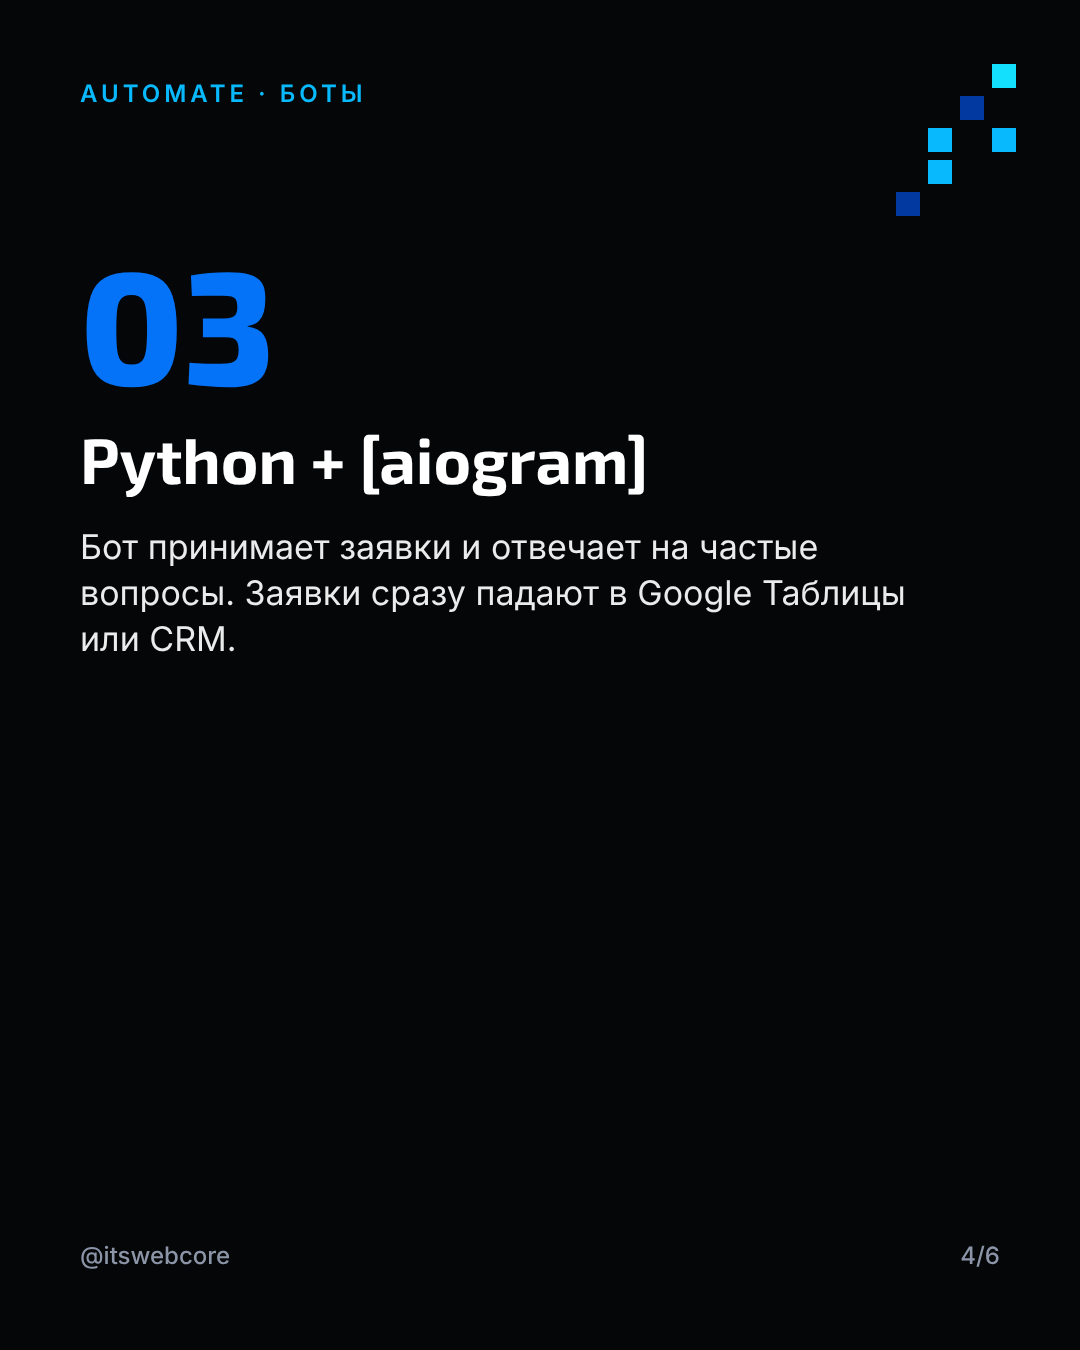
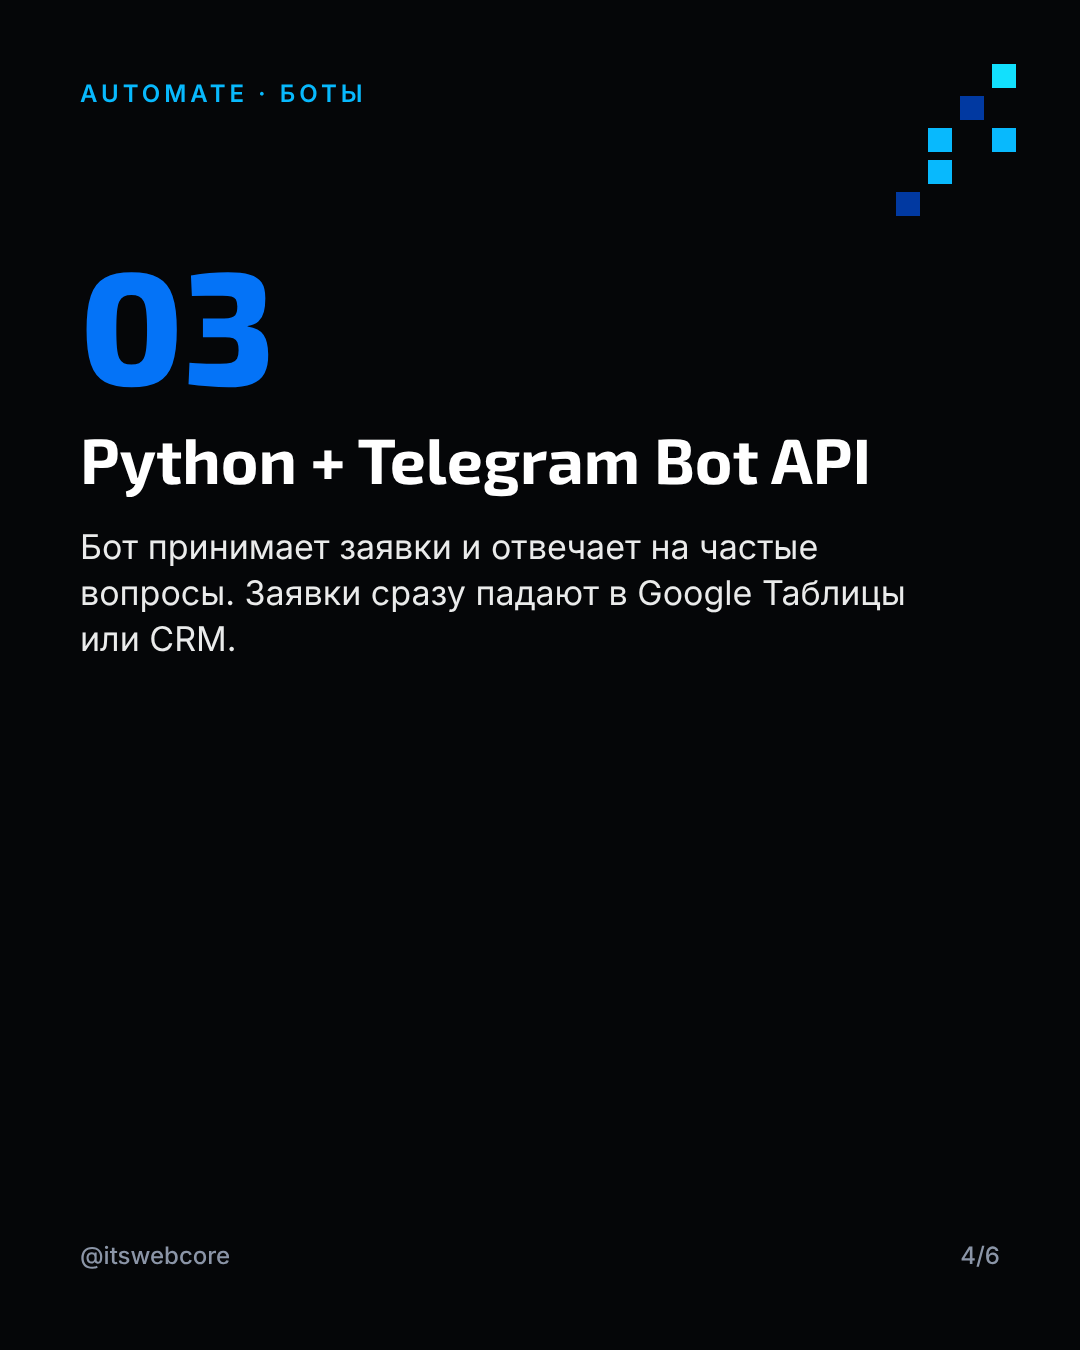
Посты недели 1 без заготовок, аватар, описания профилей, оформление Telegram-канала
Claude-Session: https://claude.ai/code/session_01Po5HxNS9izEdbNkzxQn4qg

Changed region(s): [[0.3361, 0.3111, 0.825, 0.3733]]

diff --git a/templates/week-01/d7-04dec.dc.html b/templates/week-01/d7-04dec.dc.html
@@ -28,7 +28,7 @@ a{color:#2f8bff}a:hover{color:#08b9fd}
 <div style="display: flex; align-items: center; gap: 24px"><svg aria-hidden="true" width="40" height="40" viewBox="0 0 40 40"><rect x="0" y="0" width="40" height="40" fill="none" stroke="#08b9fd" stroke-width="3"/><path d="M10 21 L17 28 L30 13" fill="none" stroke="#08b9fd" stroke-width="4"/></svg><span style="font-size: 38px; font-weight: 500; color: #eaebeb">Реклама в Google</span></div>
 <div style="display: flex; align-items: center; gap: 24px"><svg aria-hidden="true" width="40" height="40" viewBox="0 0 40 40"><rect x="0" y="0" width="40" height="40" fill="none" stroke="#08b9fd" stroke-width="3"/><path d="M10 21 L17 28 L30 13" fill="none" stroke="#08b9fd" stroke-width="4"/></svg><span style="font-size: 38px; font-weight: 500; color: #eaebeb">Обработка заявок</span></div>
 </div>
-<div style="background: #0473f7; border-radius: 4px; padding: 32px 40px"><p style="margin: 0; font-size: 36px; font-weight: 700; line-height: 1.25; color: #ffffff">Напиши РАЗБОР в комментариях или в директ</p><p style="margin: 8px 0 0; font-size: 26px; font-weight: 600; color: #ffffff">Выберу 3 заявки до [дата]</p></div>
+<div style="background: #0473f7; border-radius: 4px; padding: 32px 40px"><p style="margin: 0; font-size: 36px; font-weight: 700; line-height: 1.25; color: #ffffff">Напиши РАЗБОР в комментариях или в директ</p><p style="margin: 8px 0 0; font-size: 26px; font-weight: 600; color: #ffffff">Выберу 3 заявки до 11 декабря</p></div>
 </div>
 <div style="margin-top: auto"></div>
 <div style="position: relative; display: flex; justify-content: space-between; align-items: center">

diff --git a/templates/week-01/d2-slide2.dc.html b/templates/week-01/d2-slide2.dc.html
@@ -23,8 +23,8 @@ a{color:#2f8bff}a:hover{color:#08b9fd}
 <p style="margin: 0; font-family: Inter, sans-serif; font-weight: 600; font-size: 24px; line-height: 1.2; letter-spacing: 4px; text-transform: uppercase; color: #08b9fd">Build · сайты</p>
 <div style="position: relative; display: flex; flex-direction: column; gap: 32px; margin-top: 140px">
 <p style="margin: 0; font-family: 'Exo 2', sans-serif; font-weight: 800; font-size: 160px; line-height: 0.9; color: #0473f7">01</p>
-<h2 style="margin: 0; max-width: 900px; font-family: 'Exo 2', sans-serif; font-weight: 700; font-size: 64px; line-height: 1.05; color: #ffffff">[WordPress / Tilda / свой код]</h2>
-<p style="margin: 0; max-width: 860px; font-size: 34px; line-height: 1.35; color: #eaebeb">Почему именно это: [одна причина]. Клиенту важно не на чём сайт, а сколько людей оставили заявку.</p>
+<h2 style="margin: 0; max-width: 900px; font-family: 'Exo 2', sans-serif; font-weight: 700; font-size: 64px; line-height: 1.05; color: #ffffff">Платформа — под задачу</h2>
+<p style="margin: 0; max-width: 860px; font-size: 34px; line-height: 1.35; color: #eaebeb">Лендинг, сайт компании или магазин. Главное требование одно: быстро открывается с телефона и ведёт к заявке.</p>
 </div>
 <div style="margin-top: auto"></div>
 <div style="position: relative; display: flex; justify-content: space-between; align-items: center">

diff --git a/templates/week-01/d2-slide5.dc.html b/templates/week-01/d2-slide5.dc.html
@@ -23,8 +23,8 @@ a{color:#2f8bff}a:hover{color:#08b9fd}
 <p style="margin: 0; font-family: Inter, sans-serif; font-weight: 600; font-size: 24px; line-height: 1.2; letter-spacing: 4px; text-transform: uppercase; color: #08b9fd">Дизайн · AI</p>
 <div style="position: relative; display: flex; flex-direction: column; gap: 32px; margin-top: 140px">
 <p style="margin: 0; font-family: 'Exo 2', sans-serif; font-weight: 800; font-size: 160px; line-height: 0.9; color: #0473f7">04</p>
-<h2 style="margin: 0; max-width: 900px; font-family: 'Exo 2', sans-serif; font-weight: 700; font-size: 64px; line-height: 1.05; color: #ffffff">[Figma / Canva] + [AI-инструмент]</h2>
-<p style="margin: 0; max-width: 860px; font-size: 34px; line-height: 1.35; color: #eaebeb">AI помогает с [текстами, кодом, идеями]. Но решение и проверку всегда оставляю за собой.</p>
+<h2 style="margin: 0; max-width: 900px; font-family: 'Exo 2', sans-serif; font-weight: 700; font-size: 64px; line-height: 1.05; color: #ffffff">Макеты сам, черновики — с&nbsp;AI</h2>
+<p style="margin: 0; max-width: 860px; font-size: 34px; line-height: 1.35; color: #eaebeb">AI помогает с текстами, кодом и идеями. Но решение и проверку всегда оставляю за собой.</p>
 </div>
 <div style="margin-top: auto"></div>
 <div style="position: relative; display: flex; justify-content: space-between; align-items: center">

diff --git a/templates/week-01/d2-slide4.dc.html b/templates/week-01/d2-slide4.dc.html
@@ -23,7 +23,7 @@ a{color:#2f8bff}a:hover{color:#08b9fd}
 <p style="margin: 0; font-family: Inter, sans-serif; font-weight: 600; font-size: 24px; line-height: 1.2; letter-spacing: 4px; text-transform: uppercase; color: #08b9fd">Automate · боты</p>
 <div style="position: relative; display: flex; flex-direction: column; gap: 32px; margin-top: 140px">
 <p style="margin: 0; font-family: 'Exo 2', sans-serif; font-weight: 800; font-size: 160px; line-height: 0.9; color: #0473f7">03</p>
-<h2 style="margin: 0; max-width: 900px; font-family: 'Exo 2', sans-serif; font-weight: 700; font-size: 64px; line-height: 1.05; color: #ffffff">Python + [aiogram]</h2>
+<h2 style="margin: 0; max-width: 900px; font-family: 'Exo 2', sans-serif; font-weight: 700; font-size: 64px; line-height: 1.05; color: #ffffff">Python + Telegram Bot API</h2>
 <p style="margin: 0; max-width: 860px; font-size: 34px; line-height: 1.35; color: #eaebeb">Бот принимает заявки и отвечает на частые вопросы. Заявки сразу падают в Google Таблицы или CRM.</p>
 </div>
 <div style="margin-top: auto"></div>

diff --git a/tools/setup_telegram_channel.py b/tools/setup_telegram_channel.py
@@ -1,0 +1,19 @@
+"""Ставит аватар и описание Telegram-канала из brand/profiles.md через бота."""
+import json, os, re, uuid, urllib.request
+TOKEN = os.environ["TELEGRAM_BOT_TOKEN"]; CHAT = os.environ["TELEGRAM_CHAT_ID"]
+API = f"https://api.telegram.org/bot{TOKEN}/"
+def call(method, fields, files=None):
+    b = uuid.uuid4().hex; body = b""
+    for k, v in fields.items():
+        body += f"--{b}\r\nContent-Disposition: form-data; name=\"{k}\"\r\n\r\n{v}\r\n".encode()
+    for k, p in (files or {}).items():
+        body += f"--{b}\r\nContent-Disposition: form-data; name=\"{k}\"; filename=\"{os.path.basename(p)}\"\r\nContent-Type: image/png\r\n\r\n".encode() + open(p, "rb").read() + b"\r\n"
+    body += f"--{b}--\r\n".encode()
+    r = json.load(urllib.request.urlopen(urllib.request.Request(API + method, data=body, headers={"Content-Type": f"multipart/form-data; boundary={b}"})))
+    print(method, "ok" if r.get("ok") else r)
+md = open("brand/profiles.md", encoding="utf-8").read()
+tg = md.split("## Telegram-канал", 1)[1]
+blocks = re.findall(r"```\n(.*?)\n```", tg, re.S)
+description = blocks[1].strip()
+call("setChatPhoto", {"chat_id": CHAT}, {"photo": "brand/logo/png/webcore-avatar-1080.png"})
+call("setChatDescription", {"chat_id": CHAT, "description": description})

diff --git a/tools/make_logo.py b/tools/make_logo.py
@@ -68,7 +68,7 @@ files={
  'webcore-lockup-on-black.svg': svg(LOCK_VB, mark(*DARK_SIL,'d')+word('#ffffff'), bg='#050608'),
  'webcore-wordmark.svg': svg(WORD_VB, word('#ffffff')),
  'webcore-wordmark-light.svg': svg(WORD_VB, word('#050608')),
- 'webcore-avatar.svg': svg((0,0,1080,1080), '<rect width="1080" height="1080" fill="#050608"/><g transform="translate(540 540) scale(1.25) translate(-626 -455)">'+mark(*DARK_SIL,'a')+'</g>'),
+ 'webcore-avatar.svg': svg((0,0,1080,1080), '<rect width="1080" height="1080" fill="#050608"/><g transform="translate(540 556) scale(1.22) translate(-626 -455)">'+mark(*DARK_SIL,'a')+'</g>'),
 }
 for n,c in files.items(): open('out/'+n,'w').write(c)
 print(list(files))

diff --git a/content/2026-11-28_week-01/02_2026-11-29_vs_moy-stek/telegram.md b/content/2026-11-28_week-01/02_2026-11-29_vs_moy-stek/telegram.md
@@ -1,11 +1,10 @@
-Меня часто спрашивают, на чём я делаю сайты и ботов. Раскладываю весь стек — сохраняй, если пригодится 👇
+Меня часто спрашивают, чем я делаю сайты, рекламу и ботов. Раскладываю стек — сохраняй, если пригодится 👇
 
-🖥 Сайты: [например: WordPress / Tilda / свой код]. Почему именно это: [1 причина].
+🖥 Сайты: платформу подбираю под задачу — лендинг, сайт компании или магазин. Главное требование одно: быстро открывается с телефона и ведёт к заявке.
 📈 Реклама: Google Ads + Google Analytics 4 + Google Tag Manager. Без настроенных конверсий рекламу не запускаю — иначе всё вслепую.
-🤖 Боты: Python + [aiogram / другая библиотека], живут на [сервер/хостинг]. Заявки улетают в Google Таблицы или CRM.
-🎨 Дизайн: [Figma / Canva].
-🧠 AI: [чем пользуешься и для чего — тексты, код, идеи].
+🤖 Боты: Python и Telegram Bot API. Заявки улетают в Google Таблицы или CRM, владелец видит их сразу.
+🎨 Дизайн и AI: макеты делаю сам, AI помогает с черновиками текстов, кодом и идеями. Решение и проверка всегда за мной.
 
-Главное, что понял за эти годы: инструмент не важен, если не считаешь заявки. Клиенту всё равно, на чём сайт, ему важно, сколько людей позвонило.
+Главное, что я понял: инструмент не важен, если не считаешь заявки. Клиенту всё равно, на чём сайт, ему важно, сколько людей позвонило.
 
 А чем пользуешься ты? Пиши в комментариях.

diff --git a/content/2026-11-28_week-01/01_2026-11-28_sb_znakomstvo/telegram.md b/content/2026-11-28_week-01/01_2026-11-28_sb_znakomstvo/telegram.md
@@ -1,12 +1,12 @@
-Привет! Я [имя], и это мой личный блог о том, как я строю маркетинговое агентство WebCore.
+Привет! Это WebCore — мой личный блог о том, как я строю маркетинговое агентство.
 
-Уже [N лет] я делаю сайты, настраиваю Google Ads и пишу ботов на Python. И всё это время видел одну и ту же картину: у бизнеса есть красивый сайт, но нет заявок. Или есть реклама, но заявки теряются в директе. Или админ отвечает клиентам через три часа.
+Я делаю сайты, настраиваю Google Ads и пишу ботов на Python. И постоянно вижу одну и ту же картину: у бизнеса есть красивый сайт, но нет заявок. Или есть реклама, но заявки теряются в директе. Или админ отвечает клиентам через три часа.
 
 WebCore — про то, чтобы собрать это в одну систему:
 🖥 Build — сайт, который продаёт
 📈 Promote — реклама, которая приводит клиентов
 🤖 Automate — боты, которые не дают заявкам потеряться
 
-Что будет здесь: каждый день рассказываю, что делаю, какие инструменты и фичи использую, где ошибаюсь и сколько это приносит. Без воды, с цифрами и скринами.
+Что будет здесь: каждый день рассказываю, что делаю, какие инструменты и фичи использую, где ошибаюсь и что это приносит. Без воды, с цифрами и скринами.
 
 Если у тебя бизнес и есть вопрос про сайт или рекламу — пиши в комментарии, разберу в одном из постов.

diff --git a/content/2026-11-28_week-01/06_2026-12-03_cht_moy-den/telegram.md b/content/2026-11-28_week-01/06_2026-12-03_cht_moy-den/telegram.md
@@ -1,11 +1,10 @@
 Показываю, как выглядит обычный день в агентстве, которое только запускается. Без прикрас:
 
-🕘 [время] — проверяю рекламные кампании клиентов: расход, заявки, нет ли странных скачков
-🕙 [время] — [над чем работаешь: сайт, бот, правки]
-🕐 [время] — созвон с [клиентом / потенциальным клиентом]
-🕓 [время] — контент для этого канала и Instagram
-🕘 [время] — учусь: [что сейчас изучаешь]
+☀ Утро — проверяю рекламные кампании клиентов: расход, заявки, нет ли странных скачков
+💻 День — основная работа: сайты, боты, правки
+📞 После обеда — созвоны с клиентами и с теми, кто только думает о сайте или рекламе
+✍ Вечер — контент для этого канала и Instagram, потом немного учёбы
 
-Честно: самое сложное не код и не реклама, а [твоя честная сложность — например, найти первых клиентов или не браться за всё сразу].
+Честно: самое сложное оказалось не в коде и не в рекламе, а в том, чтобы не браться за всё сразу. Учусь говорить «давайте начнём с одного» — и клиенту так тоже лучше.
 
 А как выглядит твой день? Интересно, кто тут из бизнеса, а кто из маркетинга 👇

diff --git a/brand/profiles.md b/brand/profiles.md
@@ -1,0 +1,41 @@
+# Оформление профилей
+
+## Аватар
+
+`logo/png/webcore-avatar-1080.png` — для Instagram и Telegram (знак W на чёрном, круглая обрезка его не режет).
+
+## Instagram @itswebcore
+
+**Имя** (поле «Имя», участвует в поиске):
+
+```
+WebCore · сайты и Google Ads
+```
+
+**Описание** (до 150 знаков):
+
+```
+Сайты, Google Ads и боты на Python для бизнеса
+Показываю, как это работает изнутри
+Кейсы и разборы — в Telegram ↓
+```
+
+**Ссылка:** твой Telegram-канал (`https://t.me/имя_канала`).
+
+**Актуальное:** Услуги · Кейсы · Отзывы · Как я работаю · Цены — обложки чёрные со знаком W.
+
+## Telegram-канал
+
+**Название:**
+
+```
+WebCore | сайты, реклама, боты
+```
+
+**Описание** (до 255 знаков):
+
+```
+Маркетинговое агентство WebCore: сайты, Google Ads и боты на Python. Каждый день показываю, как это работает изнутри — инструменты, кейсы, ошибки. Instagram: @itswebcore
+```
+
+Аватар и описание канала ставятся автоматически (название не меняется): Actions → «Оформить Telegram-канал» → Run workflow (боту нужно право «Изменение профиля канала»).

diff --git a/content/2026-11-28_week-01/07_2026-12-04_pt_besplatnyy-razbor/telegram.md b/content/2026-11-28_week-01/07_2026-12-04_pt_besplatnyy-razbor/telegram.md
@@ -9,4 +9,4 @@
 
 Что получишь: короткое видео или список из 3–5 конкретных шагов, которые можно сделать самому.
 
-Как участвовать: напиши [боту / в личку @...] ссылку на сайт и одно предложение о бизнесе. Выберу 3 заявки до [дата]. С разрешения владельцев покажу разборы здесь — без имён, если нужно.
+Как участвовать: напиши в комментариях «РАЗБОР», ссылку на сайт и одно предложение о бизнесе. Выберу 3 заявки до 11 декабря. С разрешения владельцев покажу разборы здесь — без имён, если нужно.

diff --git a/content/2026-11-28_week-01/02_2026-11-29_vs_moy-stek/notes.md b/content/2026-11-28_week-01/02_2026-11-29_vs_moy-stek/notes.md
@@ -1,5 +1,5 @@
 # Как публиковать
 
-Карусель из 6 слайдов (01–06). В Telegram — отправить альбомом или только первый слайд. Заполни [скобки] на слайдах 2 и 5.
+Карусель из 6 слайдов (01–06). В Telegram — отправить альбомом или только первый слайд.
 
-Всё в [квадратных скобках] замени своими данными или удали перед публикацией.
+Текст и картинка готовы к публикации.
